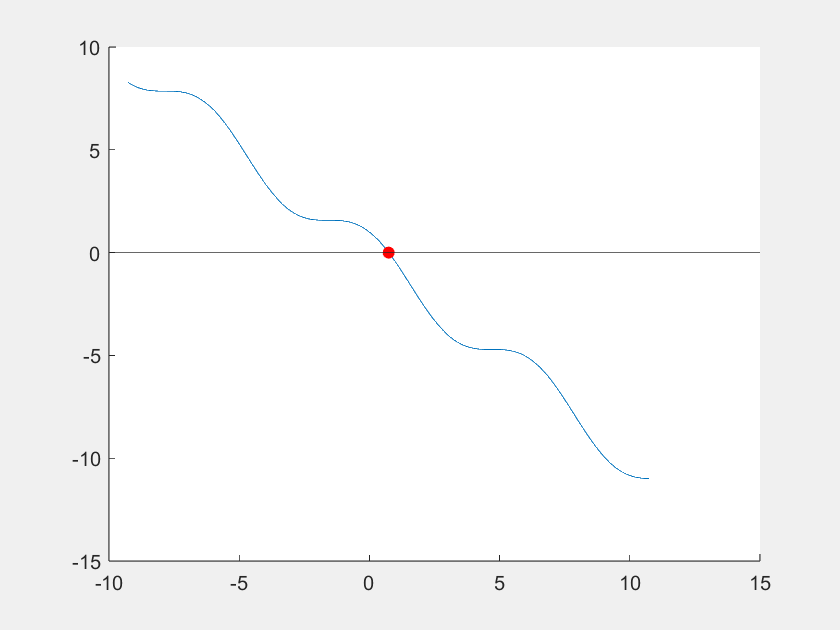
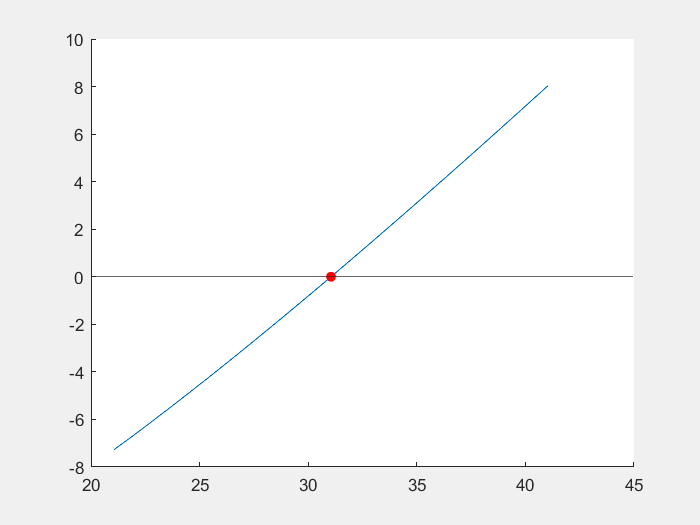
Finalización sección 1

diff --git a/app/templates/resultado_newton.html b/app/templates/resultado_newton.html
@@ -1,0 +1,51 @@
+<!DOCTYPE html>
+<html lang="en">
+<head>
+    <meta charset="UTF-8">
+    <meta name="viewport" content="width=device-width, initial-scale=1.0">
+    <title>Resultado</title>
+    <link rel="stylesheet" type="text/css" href="{{ url_for('static', filename='css/resultado.css') }}">
+</head>
+<body>
+
+  <div class="table-container">
+    <h1>Resultado</h1>
+    <p>{{r}}</p>
+    <table border="1">
+      <thead>
+        <tr>
+          <th>N</th>
+          <th>xn</th>
+          <th>fm</th>
+          <th>dfm</th>
+          <th>E</th>
+        </tr>
+      </thead>
+      <tbody>
+        {% for i in range(length) %}
+          <tr>
+              <td>{{ N[i] }}</td>
+              <td>{{ xn[i].real }}</td>
+              <td>{{ fm[i].real }}</td>
+              <td>{{ dfm[i].real }}</td>
+              <td>{{ E[i] }}</td>
+          </tr>
+        {% endfor %}
+      </tbody>
+    </table>
+    <br>
+      <form action="newton/descargar" method="post">
+          <button type="submit">Descargar</button>
+      </form>
+  </div>
+  
+  <div class="image-container">
+    <div class="row mt-4">
+      <div class="col-md 6">
+          <img src="{{ imagen_path }}" alt="Imagen">
+      </div>
+    </div>
+  </div>
+      
+</body>
+</html>

diff --git a/app/templates/formulario_newton.html b/app/templates/formulario_newton.html
@@ -1,0 +1,27 @@
+<!DOCTYPE html>
+<html lang="en">
+<head>
+    <meta charset="UTF-8">
+    <meta name="viewport" content="width=device-width, initial-scale=1.0">
+    <title>Newton</title>
+</head>
+<body>
+    <div class="table container">
+        <form action="/newton" method="post">
+            <label for="f">f:</label><br>
+            <input type="text" id="f" name="f"><br><br>
+    
+            <label for="x">X0:</label><br>
+            <input type="text" id="x" name="x"><br><br>
+    
+            <label for="tol">Tolerancia:</label><br>
+            <input type="text" id="tol" name="tol"><br><br>
+    
+            <label for="niter">Nº Iteraciones:</label><br>
+            <input type="text" id="niter" name="niter"><br><br>
+    
+            <input type="submit" value="Enviar">
+        </form>
+
+</body>
+</html>

diff --git a/app/templates/home.html b/app/templates/home.html
@@ -22,5 +22,8 @@
     <form action="/secante" method="GET">
         <button type="submit">Secante </button>
     </form>
+    <form action="/newton" method="GET">
+        <button type="submit">Newton </button>
+    </form>
 </body>
 </html>

diff --git a/app/metodos.py b/app/metodos.py
@@ -82,6 +82,8 @@ def descargar_archivo_biseccion():
     archivo_path = os.path.join(dir_tables, 'tabla_biseccion.xlsx')
     return send_file(archivo_path, as_attachment=True)
 
+
+#Método de raíces múltiples
 @app.route('/multiple_roots', methods=['GET', 'POST'])
 def multiple_roots():
     if request.method == 'POST':
@@ -112,31 +114,33 @@ def descargar_archivo_raicesm():
     archivo_path = os.path.join(dir_tables, 'multiple_roots_results.xlsx')
     return send_file(archivo_path, as_attachment=True)
 
+
+#Método de la secante
 @app.route('/secante', methods=['GET', 'POST'])
 def secante():
     if request.method == 'POST':
-            f= str(request.form['f']) 
-            x0 = float(request.form['x0'])
-            x1 = float(request.form['x1'])  
-            tol = float(request.form['tol'])
-            Terror = int(request.form['Terror'])
-            niter = int(request.form['niter'])
-            
-            eng.addpath(dir_matlab)
+        f= str(request.form['f']) 
+        x0 = float(request.form['x0'])
+        x1 = float(request.form['x1'])  
+        tol = float(request.form['tol'])
+        Terror = int(request.form['Terror'])
+        niter = int(request.form['niter'])
+        
+        eng.addpath(dir_matlab)
 
-            respuesta = eng.secante(f, x0, x1, tol, niter, Terror)
-            df = pd.read_csv('tables/tabla_secante.csv')
-            df = df.astype(str)
-            data = df.to_dict(orient='records')
+        respuesta = eng.secante(f, x0, x1, tol, niter, Terror)
+        df = pd.read_csv('tables/tabla_secante.csv')
+        df = df.astype(str)
+        data = df.to_dict(orient='records')
 
-            # Lee el archivo CSV
-            df = pd.read_csv('tables/tabla_secante.csv')
-            # Escribe los datos en un nuevo archivo Excel
-            df.to_excel('tables/tabla_secante.xlsx', index=False) 
+        # Lee el archivo CSV
+        df = pd.read_csv('tables/tabla_secante.csv')
+        # Escribe los datos en un nuevo archivo Excel
+        df.to_excel('tables/tabla_secante.xlsx', index=False) 
 
-            #Gráfica
-            imagen_path = '../static/grafica_secante.png'  # Ruta de la imagen
-            return render_template('resultado_secante.html',respuesta=respuesta, data=data,imagen_path=imagen_path)
+        #Gráfica
+        imagen_path = '../static/grafica_secante.png'  # Ruta de la imagen
+        return render_template('resultado_secante.html',respuesta=respuesta, data=data,imagen_path=imagen_path)
         
     return render_template('formulario_secante.html')
 
@@ -148,32 +152,34 @@ def descargar_archivo():
     # Enviar el archivo al cliente para descargar
     return send_file(archivo_path, as_attachment=True)
 
+
+#Método de regla falsa
 @app.route('/rf', methods=['GET', 'POST'])
 def reglaFalsa():
     if request.method == 'POST':
-            f= str(request.form['f']) 
-            x0 = float(request.form['x0'])
-            x1 = float(request.form['x1'])  
-            tol = float(request.form['tol'])
-            Terror = int(request.form['Terror'])
-            niter = int(request.form['niter'])
-            
-            eng.addpath(dir_matlab)
+        f= str(request.form['f']) 
+        x0 = float(request.form['x0'])
+        x1 = float(request.form['x1'])  
+        tol = float(request.form['tol'])
+        Terror = int(request.form['Terror'])
+        niter = int(request.form['niter'])
+        
+        eng.addpath(dir_matlab)
 
-            respuesta = eng.rf(f, x0, x1, tol, niter, Terror)
-            print(respuesta[0])
-            df = pd.read_csv('tables/tabla_reglaFalsa.csv')
-            df = df.astype(str)
-            data = df.to_dict(orient='records')
+        respuesta = eng.rf(f, x0, x1, tol, niter, Terror)
+        print(respuesta[0])
+        df = pd.read_csv('tables/tabla_reglaFalsa.csv')
+        df = df.astype(str)
+        data = df.to_dict(orient='records')
 
-            # Lee el archivo CSV
-            df = pd.read_csv('tables/tabla_reglaFalsa.csv')
-            # Escribe los datos en un nuevo archivo Excel
-            df.to_excel('tables/tabla_reglaFalsa.xlsx', index=False) 
+        # Lee el archivo CSV
+        df = pd.read_csv('tables/tabla_reglaFalsa.csv')
+        # Escribe los datos en un nuevo archivo Excel
+        df.to_excel('tables/tabla_reglaFalsa.xlsx', index=False) 
 
-            #Gráfica
-            imagen_path = '../static/grafica_reglaFalsa.png'  # Ruta de la imagen
-            return render_template('resultado_reglaFalsa.html',respuesta=respuesta, data=data,imagen_path=imagen_path)
+        #Gráfica
+        imagen_path = '../static/grafica_reglaFalsa.png'  # Ruta de la imagen
+        return render_template('resultado_reglaFalsa.html',respuesta=respuesta, data=data,imagen_path=imagen_path)
         
     return render_template('formulario_reglaFalsa.html')
 
@@ -181,6 +187,45 @@ def reglaFalsa():
 def descargar_archivorf():
     # Ruta del archivo que se va a descargar
     archivo_path = 'tables/tabla_reglaFalsa.xlsx'
+
+    # Enviar el archivo al cliente para descargar
+    return send_file(archivo_path, as_attachment=True)
+
+
+#Método de newton
+@app.route('/newton', methods=['GET', 'POST'])
+def newton():
+    if request.method == 'POST':
+        f= str(request.form['f']) 
+        x = float(request.form['x'])  
+        tol = float(request.form['tol'])
+        niter = int(request.form['niter'])
+
+        eng.addpath(dir_matlab)
+        [r, N, xn, fm, dfm, E] = eng.newton(f, x, tol, niter, nargout=6)
+        N, xn, fm, dfm, E = list(N[0]), list(xn[0]), list(fm[0]), list(dfm[0]), list(E[0])
+        length = len(N)
+
+
+        df = pd.read_csv(os.path.join(dir_tables, 'tabla_newton.csv'))
+        df = df.astype(str)
+        data = df.to_dict(orient='records')
+        df.to_excel(os.path.join(dir_tables, 'tabla_newton.xlsx'), index=False) 
+
+        # Lee el archivo CSV
+
+        # Escribe los datos en un nuevo archivo Excel
+
+        #Gráfica
+        imagen_path = '../static/grafica_newton.png'  # Ruta de la imagen
+        return render_template('resultado_newton.html', r=r, N=N, xn=xn, fm=fm, dfm=dfm, E=E, length=length, data=data, imagen_path=imagen_path)
+    
+    return render_template('formulario_newton.html')
+
+@app.route('/newton/descargar', methods=['POST'])
+def descargar_archivo_newton():
+    # Ruta del archivo que se va a descargar
+    archivo_path = 'tables/tabla_newton.xlsx'
 
     # Enviar el archivo al cliente para descargar
     return send_file(archivo_path, as_attachment=True)

diff --git a/matlab/newton.m b/matlab/newton.m
@@ -1,0 +1,50 @@
+function [r, N, xn, fm, dfm, E] = newton(f_str, x0, Tol, niter)
+    syms x
+    f = str2sym(['@(x)' f_str]);
+    df = diff(f);
+    c = 0;
+    fm(c+1) = eval(subs(f, x0));
+    fe = fm(c+1);
+    dfm(c+1) = eval(subs(df, x0));
+    dfe = dfm(c+1);
+    E(c+1) = Tol + 1;
+    error = E(c+1);
+    xn(c+1) = x0;
+    N(c+1) = c;
+    while error > Tol && c < niter
+        xn(c+2) = x0 - fe / dfe;
+        fm(c+2) = eval(subs(f, xn(c+2)));
+        fe = fm(c+2);
+        dfm(c+2) = eval(subs(df, xn(c+2)));
+        dfe = dfm(c+2);
+        E(c+2) = abs(xn(c+2) - x0);
+        error = E(c+2);
+        x0 = xn(c+2);
+        N(c+2) = c+1;
+        c = c + 1;
+    end
+    if fe == 0
+       r = sprintf('%f es raiz de f(x) \n', x0)
+    elseif error < Tol
+       r = sprintf('%f es una aproximación de una raiz de f(x) con una tolerancia= %f \n', x0, Tol)
+    elseif dfe == 0
+       r = sprintf('%f es una posible raiz múltiple de f(x) \n', x0)
+    else 
+       r = sprintf('Fracasó en %f iteraciones \n', niter) 
+    end
+
+    T = table(N', xn', fm', E', 'VariableNames', {'Iteration', 'xn', 'fxn', 'E'});
+      csv_file_path = "app/tables/tabla_newton.csv";
+      writetable(T, csv_file_path)
+
+      fig = figure('Visible', 'off');
+      xplot=((xn-2):0.1:(xn+2));
+      hold on
+      yline(0);
+      plot(xplot,eval(subs(f,xplot)));
+      img = getframe(gcf);
+      imwrite(img.cdata, 'app/static/grafica_newton.png');
+
+      hold off
+      close(fig);
+end
